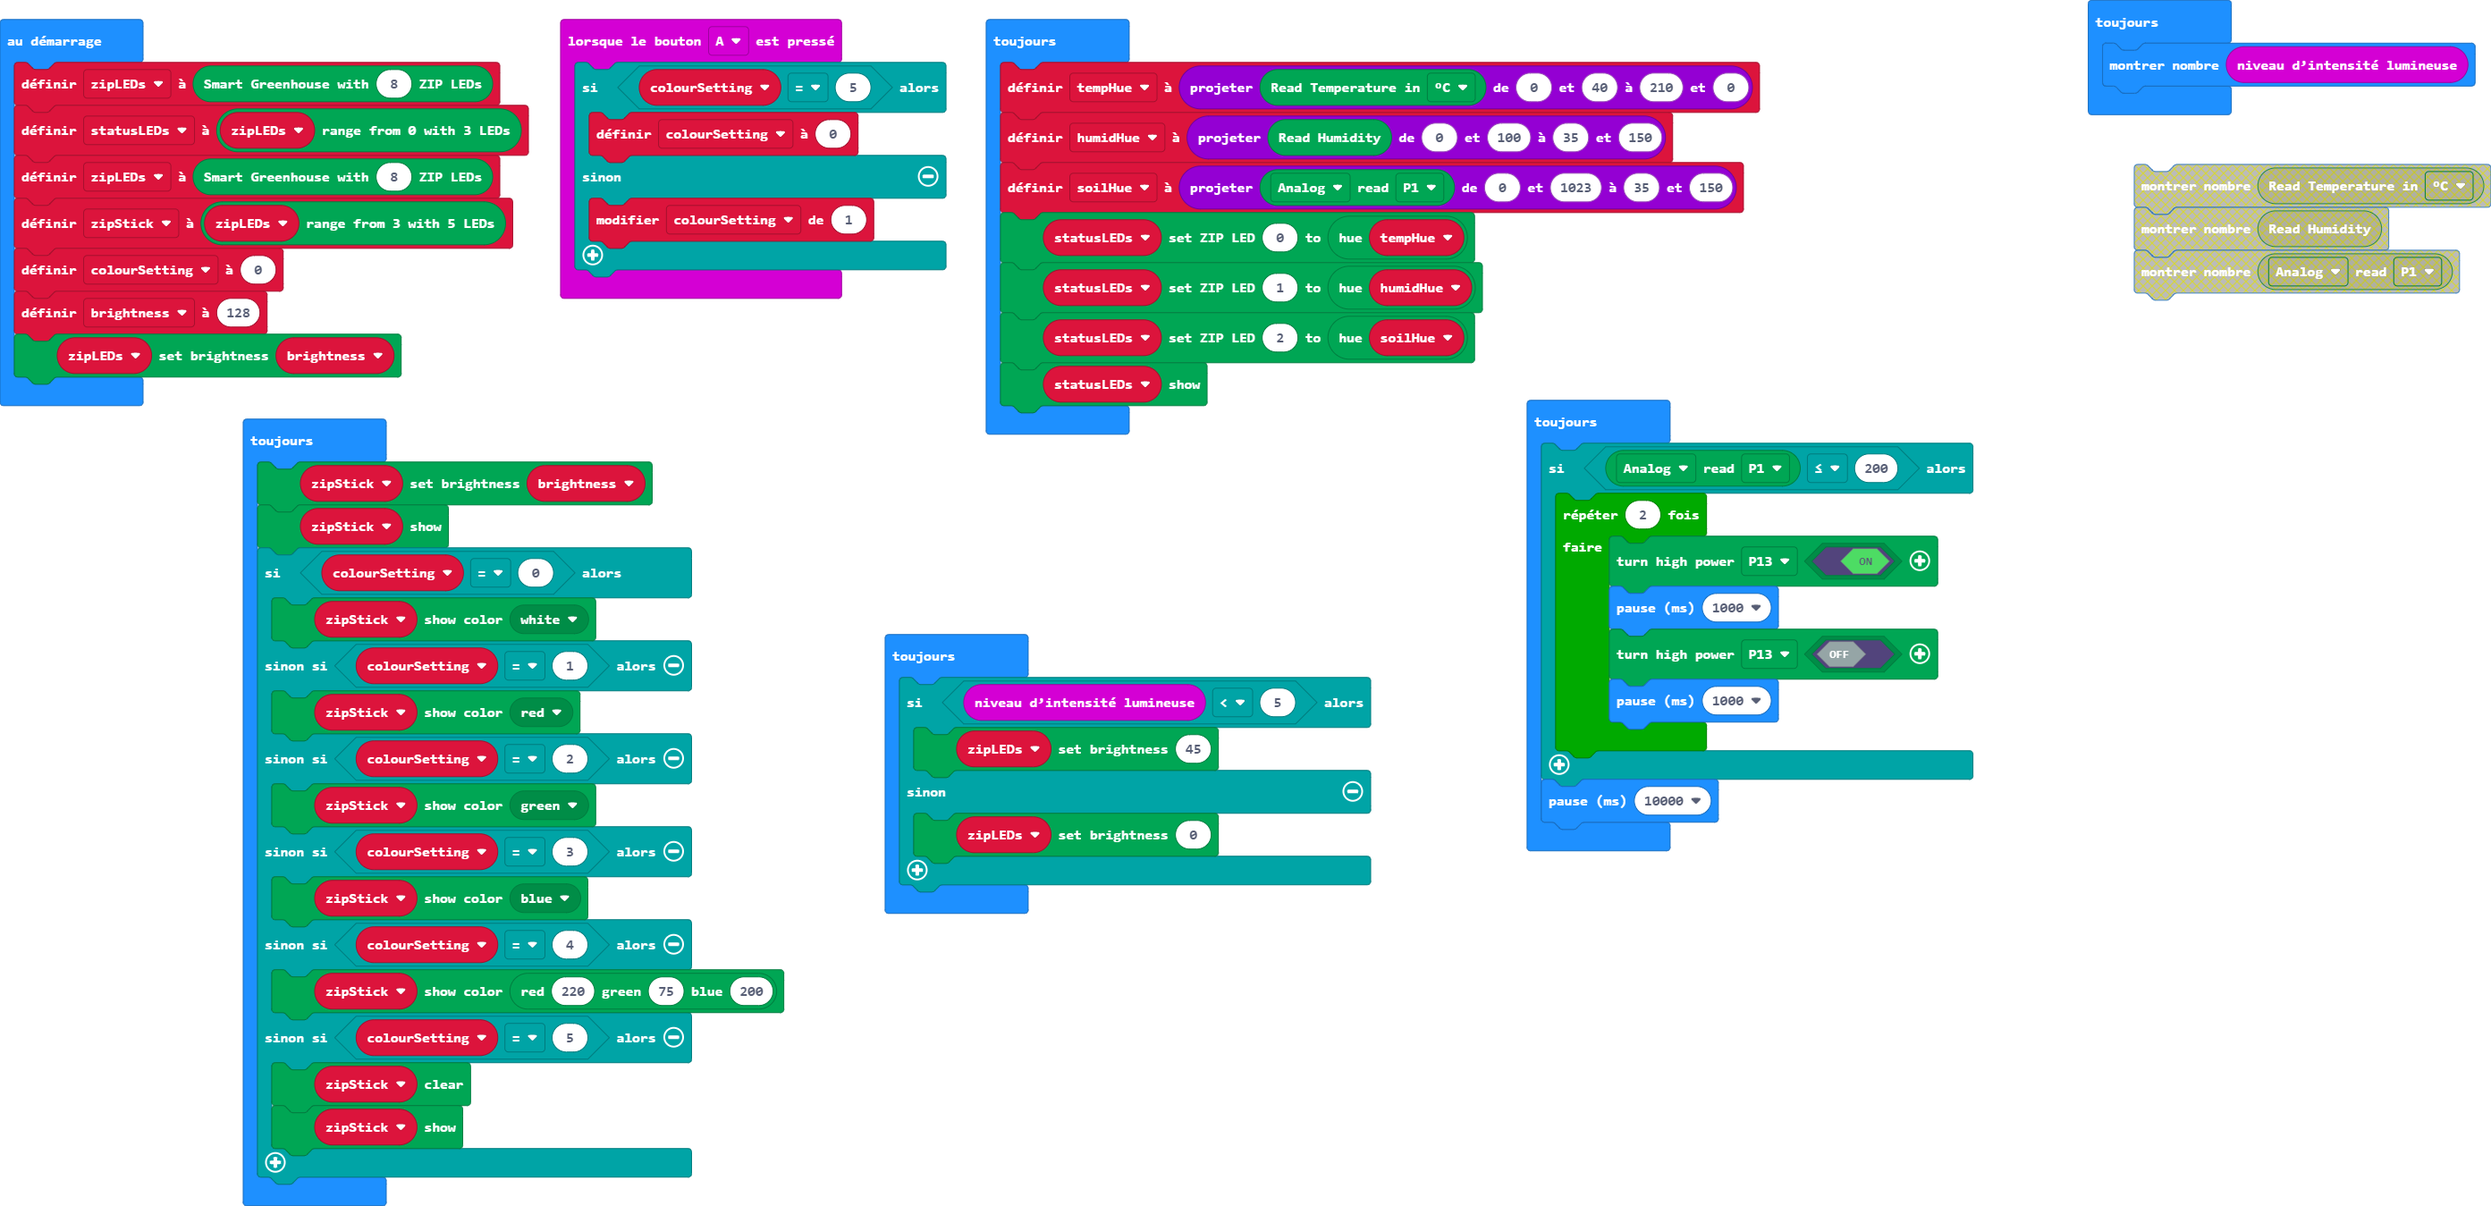
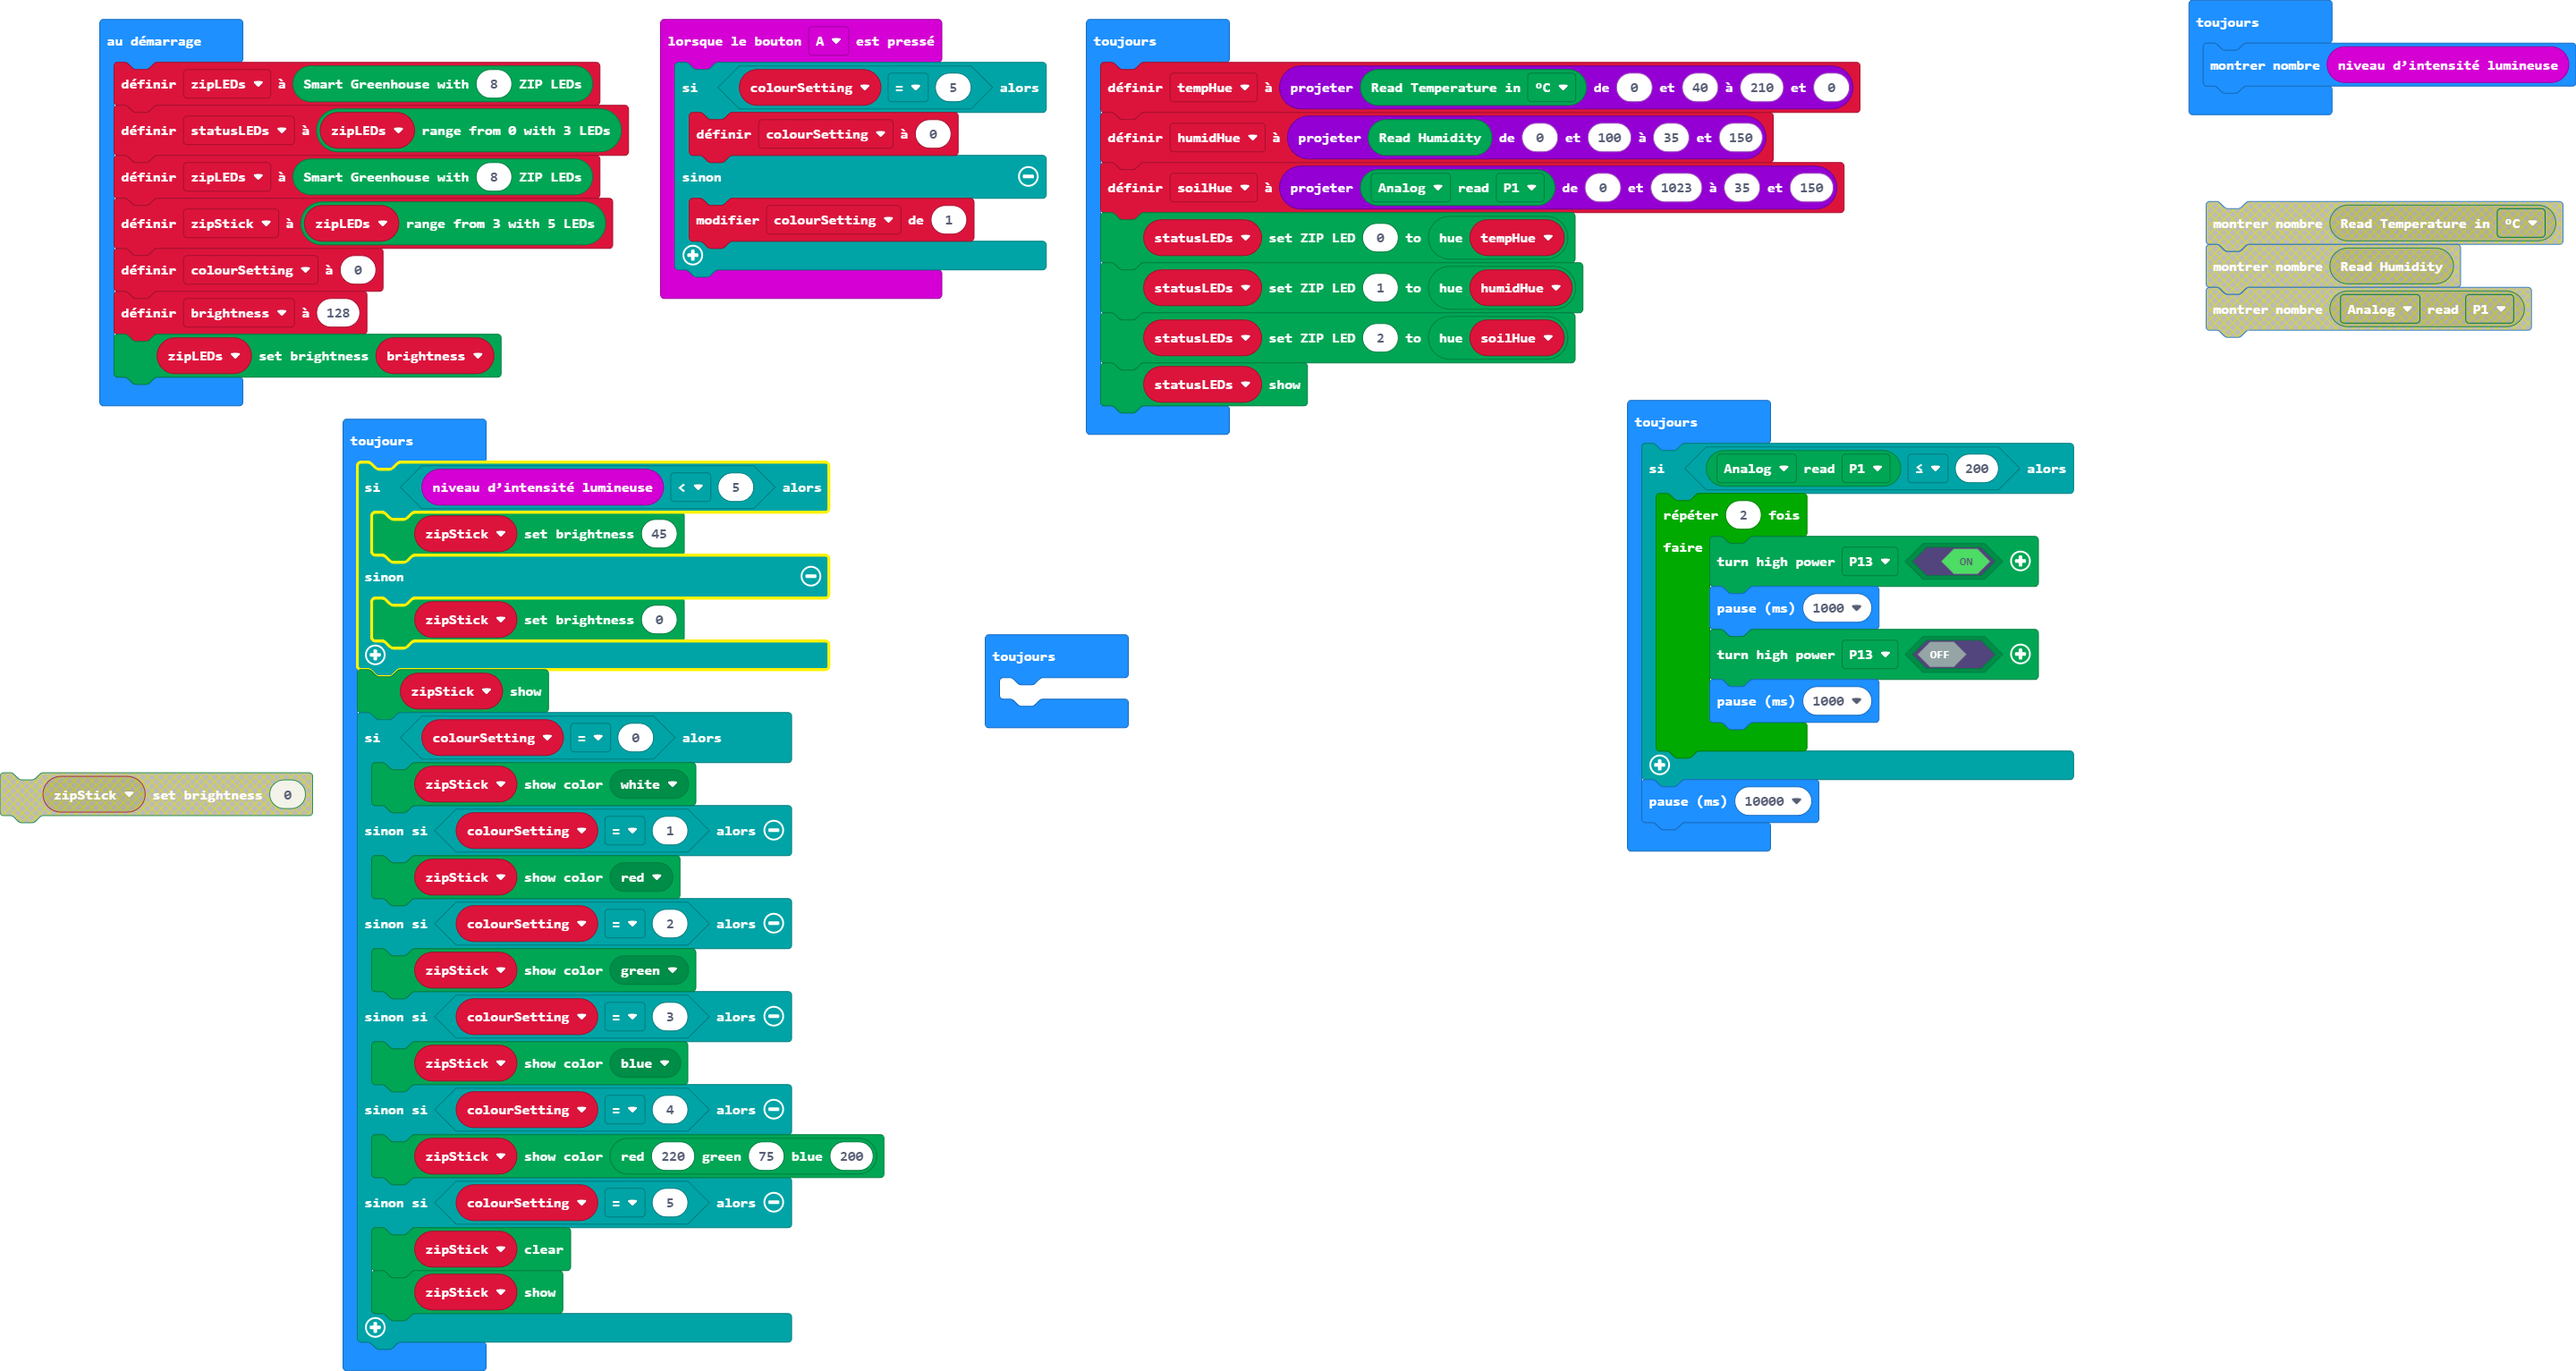
Mise à jour main.blocks, main.ts

diff --git a/main.ts b/main.ts
@@ -29,7 +29,11 @@ basic.forever(function () {
     basic.showNumber(input.lightLevel())
 })
 basic.forever(function () {
-    zipStick.setBrightness(brightness)
+    if (input.lightLevel() < 5) {
+        zipStick.setBrightness(45)
+    } else {
+        zipStick.setBrightness(0)
+    }
     zipStick.show()
     if (colourSetting == 0) {
         zipStick.showColor(kitronik_smart_greenhouse.colors(ZipLedColors.White))
@@ -58,9 +62,5 @@ basic.forever(function () {
     basic.pause(10000)
 })
 basic.forever(function () {
-    if (input.lightLevel() < 5) {
-        zipLEDs.setBrightness(45)
-    } else {
-        zipLEDs.setBrightness(0)
-    }
+	
 })
